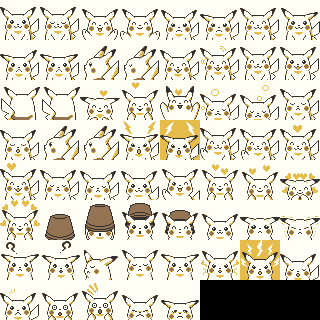
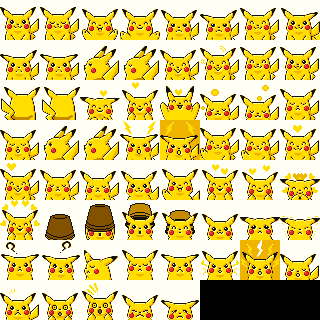
Recolor the starter PIKACHU's emotion portraits in FR/LG's colors
Yellow's 64 portraits were in the Game Boy's four shades, with PIKACHU's fur
the same white as the background. tools/make_pikachu_portraits.py keeps every
line and repaints them with the colors of FR/LG's PIKACHU sprite: the white
inside the outline becomes yellow fur lit from the upper left, Yellow's yellow
becomes shading (or the color of the hearts and bolts around it), the round
cheek patches red with a highlight and a shadow, the flower pot brown, the
outlines black. Yellow's sheet is kept in tools/data for reruns.

diff --git a/tools/make_pikachu_portraits.py b/tools/make_pikachu_portraits.py
@@ -1,0 +1,168 @@
+#!/usr/bin/env python3
+"""Recolor the starter PIKACHU's emotion portraits (graphics/pikachu_emotions/portraits.png)
+in FR/LG's style.
+
+Yellow's portraits have the Game Boy's four shades: white (the background and
+PIKACHU's fur alike), yellow, brown and near black. This keeps every line where
+Yellow drew it and repaints the frames with the colors of FR/LG's PIKACHU battle
+sprite (graphics/pokemon/pikachu/normal.pal):
+
+- outlines in black;
+- the white inside the outline (found by filling the background from the frame's
+  edges) as yellow fur, lit where the outline is up and to the left and shaded where
+  it is down and to the right, the light coming from the upper left like FR/LG's
+  sprites; tiny white spots (eye shine) stay white;
+- Yellow's yellow as shading where it touches the fur, and as the color of effects
+  (hearts, bolts) floating around it;
+- Yellow's brown split by shape: round filled patches are the cheeks (red, with a
+  highlight and a shadow), thin bits deep shade, big ones (the flower pot) brown.
+
+Run with --from to start from another copy of Yellow's sheet; by default it reads the
+original colors from tools/data/pikachu_portraits_yellow.png, so running it twice
+gives the same result.
+"""
+import os, sys
+from PIL import Image
+
+FR = os.path.abspath(os.path.join(os.path.dirname(os.path.abspath(__file__)), '..'))
+SRC = FR + '/tools/data/pikachu_portraits_yellow.png'
+OUT = FR + '/graphics/pikachu_emotions/portraits.png'
+
+# Yellow's indices
+Y_CLEAR, Y_WHITE, Y_YELLOW, Y_BROWN, Y_DARK = 0, 1, 2, 3, 4
+
+# the new palette (FR/LG PIKACHU colors plus the portrait window's white)
+PALETTE = [
+    (0, 0, 0),        # 0 transparent
+    (255, 255, 246),  # 1 window white (as before)
+    (255, 255, 123),  # 2 yellow highlight
+    (255, 222, 0),    # 3 yellow
+    (238, 180, 0),    # 4 yellow shade
+    (197, 139, 0),    # 5 deep shade / body shadow
+    (131, 82, 0),     # 6 brown
+    (255, 123, 106),  # 7 cheek highlight
+    (230, 41, 41),    # 8 cheek
+    (164, 16, 16),    # 9 cheek shadow
+    (16, 16, 16),     # 10 outline
+    (0, 0, 0), (0, 0, 0), (0, 0, 0), (0, 0, 0), (0, 0, 0),
+]
+WHITE, HILITE, YELLOW, SHADE, DEEP, BROWN, CHEEK_HI, CHEEK, CHEEK_LO, OUTLINE = range(1, 11)
+FRAME = 40
+
+
+def components(img, color, box):
+    x0, y0, x1, y1 = box
+    seen, comps = set(), []
+    for y in range(y0, y1):
+        for x in range(x0, x1):
+            if (x, y) in seen or img.getpixel((x, y)) != color:
+                continue
+            stack, comp = [(x, y)], []
+            seen.add((x, y))
+            while stack:
+                cx, cy = stack.pop()
+                comp.append((cx, cy))
+                for nx, ny in ((cx + 1, cy), (cx - 1, cy), (cx, cy + 1), (cx, cy - 1)):
+                    if x0 <= nx < x1 and y0 <= ny < y1 and (nx, ny) not in seen and img.getpixel((nx, ny)) == color:
+                        seen.add((nx, ny))
+                        stack.append((nx, ny))
+            comps.append(comp)
+    return comps
+
+
+def background(src, box):
+    """The white around PIKACHU: white connected to the top and side edges of the
+    frame (its body runs off the bottom edge, so that edge is left out)."""
+    x0, y0, x1, y1 = box
+    seeds = [(x, y0) for x in range(x0, x1)]
+    seeds += [(x, y) for x in (x0, x1 - 1) for y in range(y0, y0 + (y1 - y0) * 3 // 4)]
+    seen = set()
+    stack = [p for p in seeds if src.getpixel(p) == Y_WHITE]
+    seen.update(stack)
+    while stack:
+        cx, cy = stack.pop()
+        for nx, ny in ((cx + 1, cy), (cx - 1, cy), (cx, cy + 1), (cx, cy - 1)):
+            if x0 <= nx < x1 and y0 <= ny < y1 and (nx, ny) not in seen and src.getpixel((nx, ny)) == Y_WHITE:
+                seen.add((nx, ny))
+                stack.append((nx, ny))
+    return seen
+
+
+def recolor_frame(src, out, box):
+    x0, y0, x1, y1 = box
+    px = lambda x, y: src.getpixel((x, y)) if x0 <= x < x1 and y0 <= y < y1 else Y_WHITE
+    bg = background(src, box)
+    is_body = lambda x, y: x0 <= x < x1 and y0 <= y < y1 and (x, y) not in bg and src.getpixel((x, y)) in (Y_WHITE, Y_YELLOW)
+    # white inside the outline is PIKACHU's fur, except tiny spots (eye shine, teeth)
+    fur = set()
+    for comp in components(src, Y_WHITE, box):
+        if comp[0] in bg:
+            continue
+        if len(comp) <= 3:
+            continue
+        fur.update(comp)
+    for y in range(y0, y1):
+        for x in range(x0, x1):
+            c = src.getpixel((x, y))
+            if c == Y_DARK:
+                out.putpixel((x, y), OUTLINE)
+            elif c == Y_CLEAR:
+                out.putpixel((x, y), 0)
+            elif (x, y) in fur:
+                lower_right = Y_DARK in (px(x + 1, y), px(x, y + 1), px(x + 1, y + 1))
+                upper_left = Y_DARK in (px(x - 1, y), px(x, y - 1), px(x - 1, y - 1))
+                if lower_right and not upper_left:
+                    out.putpixel((x, y), SHADE)
+                elif upper_left and not lower_right:
+                    out.putpixel((x, y), HILITE)
+                else:
+                    out.putpixel((x, y), YELLOW)
+            elif c == Y_WHITE:
+                out.putpixel((x, y), WHITE)
+    # Yellow's yellow: shading where it touches the fur, an effect (hearts, bolts) elsewhere
+    for comp in components(src, Y_YELLOW, box):
+        touches_fur = any(n in fur for (x, y) in comp for n in ((x + 1, y), (x - 1, y), (x, y + 1), (x, y - 1)))
+        for (x, y) in comp:
+            out.putpixel((x, y), SHADE if touches_fur else YELLOW)
+    # Yellow's brown: round, filled patches are the cheeks, thin bits deep shade, big ones the pot
+    for comp in components(src, Y_BROWN, box):
+        xs, ys = [p[0] for p in comp], [p[1] for p in comp]
+        w, h = max(xs) - min(xs) + 1, max(ys) - min(ys) + 1
+        filled = len(comp) / float(w * h)
+        touches_fur = any(n in fur for (x, y) in comp for n in ((x + 1, y), (x - 1, y), (x, y + 1), (x, y - 1)))
+        if 6 <= len(comp) <= 30 and 3 <= w <= 7 and 3 <= h <= 7 and filled >= 0.45:
+            # the cheek is the brown core and the ring of Yellow's yellow around it
+            cheek = set(comp)
+            for (x, y) in comp:
+                for n in ((x + 1, y), (x - 1, y), (x, y + 1), (x, y - 1), (x + 1, y + 1), (x - 1, y - 1), (x + 1, y - 1), (x - 1, y + 1)):
+                    if px(*n) == Y_YELLOW:
+                        cheek.add(n)
+            cxs, cys = [p[0] for p in cheek], [p[1] for p in cheek]
+            for (x, y) in cheek:
+                if (x + 1, y) not in cheek or (x, y + 1) not in cheek:
+                    out.putpixel((x, y), CHEEK_LO)
+                else:
+                    out.putpixel((x, y), CHEEK)
+            hx, hy = min(cxs) + (max(cxs) - min(cxs)) // 3, min(cys) + (max(cys) - min(cys)) // 3
+            if (hx, hy) in cheek:
+                out.putpixel((hx, hy), CHEEK_HI)
+        else:
+            color = DEEP if touches_fur or len(comp) < 6 else BROWN
+            for (x, y) in comp:
+                out.putpixel((x, y), color)
+
+
+def main():
+    src_path = sys.argv[sys.argv.index('--from') + 1] if '--from' in sys.argv else SRC
+    src = Image.open(src_path)
+    out = Image.new('P', src.size, 0)
+    out.putpalette([v for c in PALETTE for v in c])
+    for fy in range(0, src.size[1], FRAME):
+        for fx in range(0, src.size[0], FRAME):
+            recolor_frame(src, out, (fx, fy, fx + FRAME, fy + FRAME))
+    out.save(OUT)
+    print(f'{OUT}: {out.size}, colors {sorted(set(out.getdata()))}')
+
+
+if __name__ == '__main__':
+    main()
